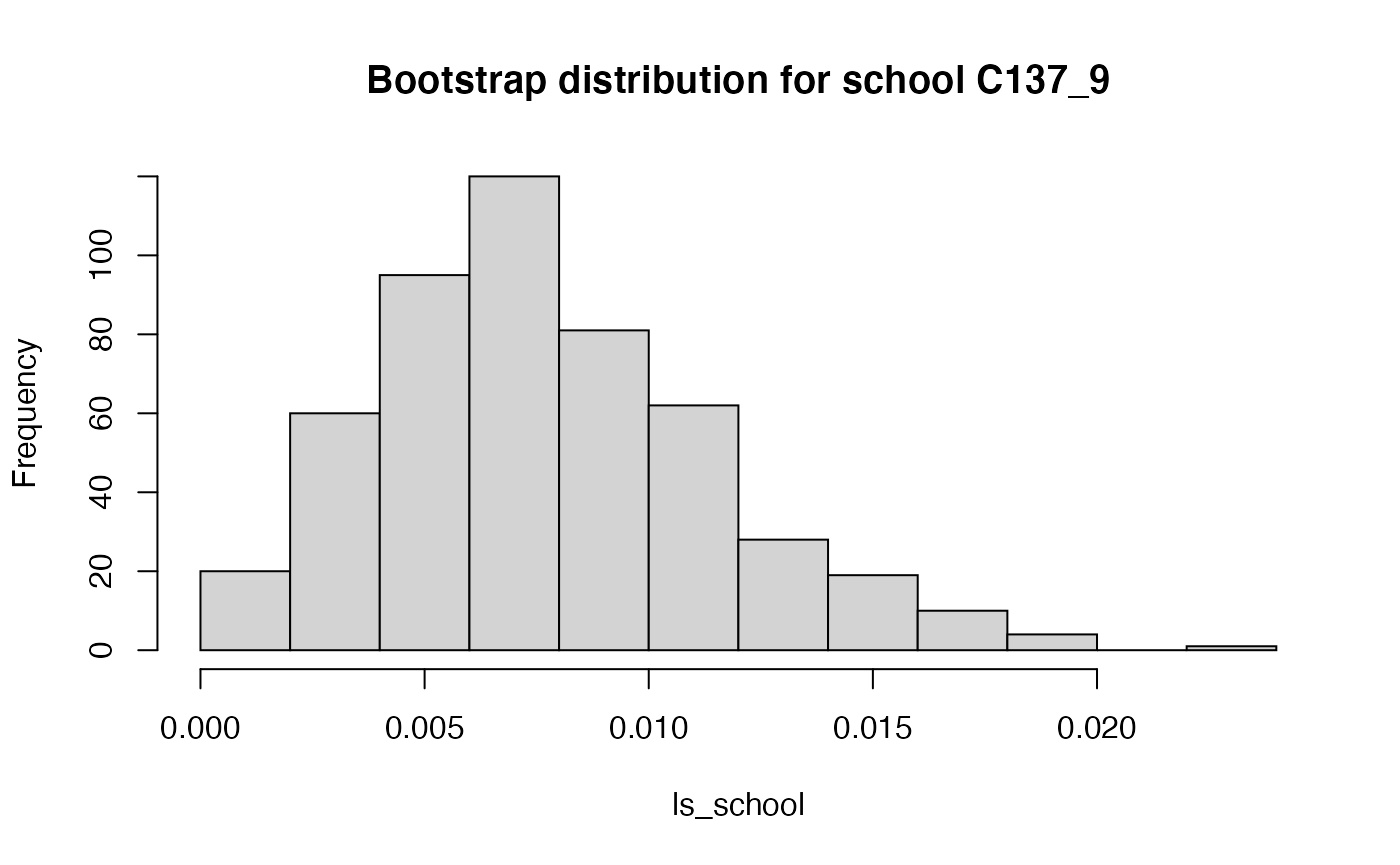
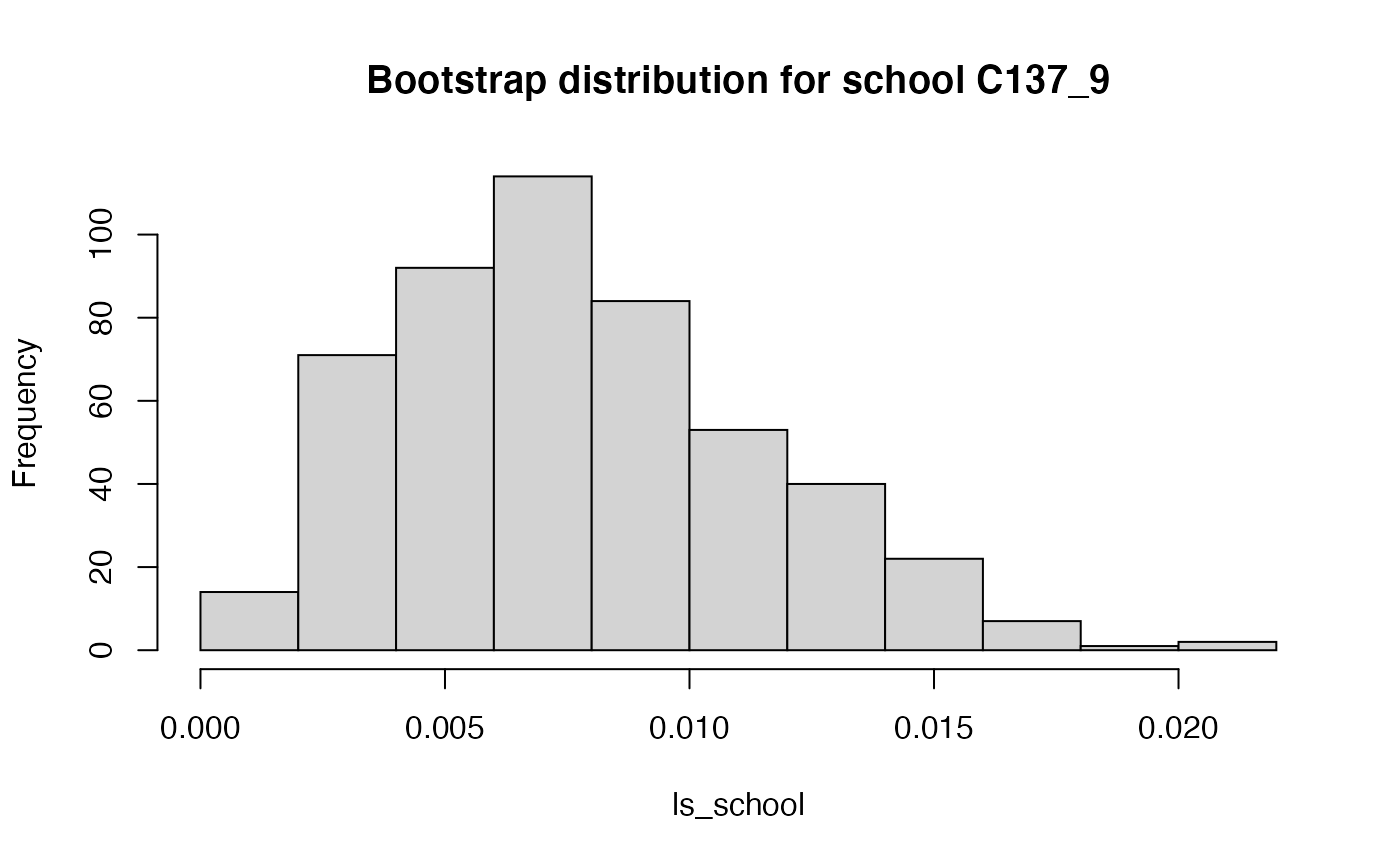
Built site for segregation: 0.5.0.9000@a2196af

diff --git a/articles/segregation.html b/articles/segregation.html
@@ -200,8 +200,8 @@ H(\mathbf{T})=\frac{M(\mathbf{T})}{E(\mathbf{T})},
              se <span class="op">=</span> <span class="cn">TRUE</span>, CI <span class="op">=</span> <span class="fl">.95</span>, n_bootstrap <span class="op">=</span> <span class="fl">500</span><span class="op">)</span>
 <span class="co">#&gt; 500 bootstrap iterations on 877739 observations</span>
 <span class="co">#&gt;    stat       est           se                  CI        bias</span>
-<span class="co">#&gt; 1:    M 0.4219430 0.0007508070 0.4204549,0.4234860 0.003595926</span>
-<span class="co">#&gt; 2:    H 0.4152792 0.0006867295 0.4138944,0.4165459 0.003529130</span></code></pre></div>
+<span class="co">#&gt; 1:    M 0.4219403 0.0007890319 0.4204109,0.4234876 0.003598629</span>
+<span class="co">#&gt; 2:    H 0.4152678 0.0007303567 0.4137834,0.4168056 0.003540558</span></code></pre></div>
 <p>As there a large number of observations, the standard errors are very small.</p>
 </div>
 <div id="between-within-decomposition" class="section level2">
@@ -325,17 +325,17 @@ H(\mathbf{T})=H(\mathbf{S}) + \sum_{s=1}^S \frac{E(\mathbf{T}_s)}{E(\mathbf{T})}
                     se <span class="op">=</span> <span class="cn">TRUE</span>, CI <span class="op">=</span> <span class="fl">.95</span>, n_bootstrap <span class="op">=</span> <span class="fl">500</span><span class="op">)</span><span class="op">)</span>
 <span class="co">#&gt; 500 bootstrap iterations on 877739 observations</span>
 <span class="co">#&gt;    stat       est           se                  CI        bias</span>
-<span class="co">#&gt; 1:    M 0.4218932 0.0008189071 0.4203151,0.4234589 0.003645735</span>
-<span class="co">#&gt; 2:    H 0.4152350 0.0007470074 0.4137957,0.4165733 0.003573337</span></code></pre></div>
+<span class="co">#&gt; 1:    M 0.4219239 0.0007840424 0.4203846,0.4234662 0.003615030</span>
+<span class="co">#&gt; 2:    H 0.4152308 0.0007243340 0.4138231,0.4166171 0.003577522</span></code></pre></div>
 <p>The confidence intervals are based on the percentiles from the bootstrap distribution, and hence require a large number of bootstrap iterations for valid interpretation. The estimate <code>est</code> that is reported in the results has already been “debiased”, i.e. the bias that has been estimated from the bootstrap distribution (which is reported in <code>bias</code>) has been subtracted from the usual maximum-likelihood estimate that we would obtain from <code>mutual_total</code> with <code>se = FALSE</code>. The confidence interval is centered around the debiased estimate.</p>
 <p>On balance, confidence intervals are preferred over the standard error because the bootstrap distribution can be skewed, especially when segregation is very low or very high. For this example, we can see that the standard errors provide almost identical coverage to the confidence intervals, as</p>
 <div class="sourceCode" id="cb16"><pre class="downlit sourceCode r">
 <code class="sourceCode R"><span class="co"># M</span>
 <span class="fu"><a href="https://rdrr.io/r/base/with.html">with</a></span><span class="op">(</span><span class="va">se</span>, <span class="fu"><a href="https://rdrr.io/r/base/c.html">c</a></span><span class="op">(</span><span class="va">est</span><span class="op">[</span><span class="fl">1</span><span class="op">]</span> <span class="op">-</span> <span class="fl">1.96</span> <span class="op">*</span> <span class="va">se</span><span class="op">[</span><span class="fl">1</span><span class="op">]</span>, <span class="va">est</span><span class="op">[</span><span class="fl">1</span><span class="op">]</span> <span class="op">+</span> <span class="fl">1.96</span> <span class="op">*</span> <span class="va">se</span><span class="op">[</span><span class="fl">1</span><span class="op">]</span><span class="op">)</span><span class="op">)</span>
-<span class="co">#&gt; [1] 0.4202882 0.4234983</span>
+<span class="co">#&gt; [1] 0.4203872 0.4234607</span>
 <span class="co"># H</span>
 <span class="fu"><a href="https://rdrr.io/r/base/with.html">with</a></span><span class="op">(</span><span class="va">se</span>, <span class="fu"><a href="https://rdrr.io/r/base/c.html">c</a></span><span class="op">(</span><span class="va">est</span><span class="op">[</span><span class="fl">2</span><span class="op">]</span> <span class="op">-</span> <span class="fl">1.96</span> <span class="op">*</span> <span class="va">se</span><span class="op">[</span><span class="fl">2</span><span class="op">]</span>, <span class="va">est</span><span class="op">[</span><span class="fl">2</span><span class="op">]</span> <span class="op">+</span> <span class="fl">1.96</span> <span class="op">*</span> <span class="va">se</span><span class="op">[</span><span class="fl">2</span><span class="op">]</span><span class="op">)</span><span class="op">)</span>
-<span class="co">#&gt; [1] 0.4137708 0.4166991</span></code></pre></div>
+<span class="co">#&gt; [1] 0.4138111 0.4166505</span></code></pre></div>
 <p>provide effectively the same coverage as the confidence intervals obtained from the percentile bootstrap.</p>
 <p>Whenever the bootstrap is used, the bootstrap distributions for each parameter are reported in an attribute <code>bootstrap</code> of the returned object. This can be used, for instance, to check whether the bootstrap distribution is skewed. The following code computes local segregation scores for all schools, and then shows a histogram of the bootstrap distribution for school C137_9, which has a very low local segregation score:</p>
 <div class="sourceCode" id="cb17"><pre class="downlit sourceCode r">
@@ -351,8 +351,8 @@ H(\mathbf{T})=H(\mathbf{S}) + \sum_{s=1}^S \frac{E(\mathbf{T}_s)}{E(\mathbf{T})}
 <div class="sourceCode" id="cb18"><pre class="downlit sourceCode r">
 <code class="sourceCode R"><span class="fu"><a href="../reference/mutual_expected.html">mutual_expected</a></span><span class="op">(</span><span class="va">schools00</span>, <span class="st">"race"</span>, <span class="st">"school"</span>, weight <span class="op">=</span> <span class="st">"n"</span>, n_bootstrap <span class="op">=</span> <span class="fl">500</span><span class="op">)</span>
 <span class="co">#&gt;         stat         est           se</span>
-<span class="co">#&gt; 1: M under 0 0.004805538 7.657485e-05</span>
-<span class="co">#&gt; 2: H under 0 0.004729530 7.536368e-05</span></code></pre></div>
+<span class="co">#&gt; 1: M under 0 0.004809728 7.559530e-05</span>
+<span class="co">#&gt; 2: H under 0 0.004733653 7.439962e-05</span></code></pre></div>
 <p>Here, there is no concern about bias due to a small sample size.</p>
 </div>
 <div id="decomposing-differences-in-indices" class="section level2">
@@ -367,8 +367,8 @@ H(\mathbf{T})=H(\mathbf{S}) + \sum_{s=1}^S \frac{E(\mathbf{T}_s)}{E(\mathbf{T})}
 <span class="co">#&gt; 3:           diff -0.012153884</span>
 <span class="co">#&gt; 4:      additions -0.003412776</span>
 <span class="co">#&gt; 5:       removals -0.011405093</span>
-<span class="co">#&gt; 6: group_marginal  0.017871051</span>
-<span class="co">#&gt; 7:  unit_marginal -0.011712727</span>
+<span class="co">#&gt; 6: group_marginal  0.018550238</span>
+<span class="co">#&gt; 7:  unit_marginal -0.012391915</span>
 <span class="co">#&gt; 8:     structural -0.003494338</span></code></pre></div>
 <p>This method also supports inference by setting <code>se = TRUE</code>.</p>
 </div>
